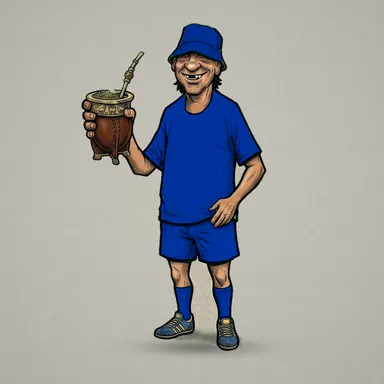
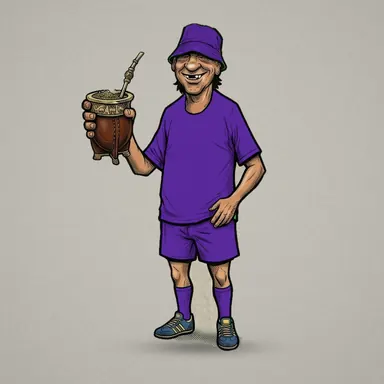
feat(avatares): dos poses por hincha en el selector; Independiente Rivadavia en violeta
Faltan las imágenes de la pose 2 (festejando).

Claude-Session: https://claude.ai/code/session_01QKgA6nDdpByUDEuMYCpMxJ

diff --git a/src/profile/avatars.tsx b/src/profile/avatars.tsx
@@ -1,9 +1,9 @@
 import { useMemo, useState } from 'react';
 import { Search } from 'lucide-react';
 import { AVATARS, getAvatar } from './avatarData';
-import { buscarHinchas, getHincha, HINCHAS, nombresDe, ordenarPorClub } from './hinchas';
+import { avatarIdDe, buscarHinchas, getHincha, HINCHAS, nombresDe, ordenarPorClub, POSES_HINCHA, poseDe } from './hinchas';
 import HinchaSvg, { CHICO } from './Hincha';
-import type { Hincha } from './hinchas';
+import type { Hincha, PoseHincha } from './hinchas';
 
 // Componentes de avatar: los clásicos (íconos, avatarData.ts) y los hinchas de clubes (hinchas.ts +
 // Hincha.tsx). Los ids de los dos sets tienen que coincidir con AVATAR_IDS del backend.
@@ -17,7 +17,7 @@ export function Avatar({ id, fallback, size = 84 }: { id?: string | null; fallba
   } as const;
 
   const hincha = getHincha(id);
-  if (hincha) return <HinchaAvatar hincha={hincha} size={size} />;
+  if (hincha && id) return <HinchaAvatar hincha={hincha} avatarId={id} size={size} />;
 
   const avatar = getAvatar(id);
   if (!avatar) {
@@ -40,22 +40,25 @@ export function Avatar({ id, fallback, size = 84 }: { id?: string | null; fallba
   );
 }
 
-// Hinchas ilustrados: una imagen por avatar en public/avatars/hinchas/<id>.webp (384×384, el círculo de color
-// toca el borde). Si la imagen no carga, se usa el dibujo SVG de Hincha.tsx como respaldo.
+// Hinchas ilustrados: una imagen por avatar (dos por club) en public/avatars/hinchas/<id>.webp (384×384, fondo gris). Si la imagen no carga, se usa el dibujo SVG de Hincha.tsx como respaldo.
 export const hinchaImagen = (id: string) => `/avatars/hinchas/${id}.webp`;
 // Chiquito (ranking, salas, marcador): se agranda la imagen y se centra en la cara y el pecho
 const ZOOM_CHICO = 1.9;
-const CENTRO_CHICO = { x: 0.53, y: 0.31 }; // punto de la imagen (0 a 1) que queda en el centro
+// Punto de la imagen (0 a 1) que queda en el centro, según la pose (1: con el mate; 2: festejando)
+const CENTRO_CHICO: Record<PoseHincha, { x: number; y: number }> = {
+  1: { x: 0.53, y: 0.31 },
+  2: { x: 0.5, y: 0.3 },
+};
 
-function HinchaAvatar({ hincha, size }: { hincha: Hincha; size: number }) {
+function HinchaAvatar({ hincha, avatarId, size }: { hincha: Hincha; avatarId: string; size: number }) {
   const [sinImagen, setSinImagen] = useState(false);
   const lado = size < CHICO ? size * ZOOM_CHICO : size;
-  const centro = size < CHICO ? CENTRO_CHICO : { x: 0.5, y: 0.5 };
+  const centro = size < CHICO ? CENTRO_CHICO[poseDe(avatarId)] : { x: 0.5, y: 0.5 };
   return (
     <div
       role="img"
       aria-label={`Avatar: hincha de ${nombresDe(hincha).join(', ')}`}
-      data-avatar={hincha.id}
+      data-avatar={avatarId}
       style={{
         width: size, height: size, borderRadius: '50%', flexShrink: 0, overflow: 'hidden',
         display: 'flex', alignItems: 'center', justifyContent: 'center',
@@ -66,7 +69,7 @@ function HinchaAvatar({ hincha, size }: { hincha: Hincha; size: number }) {
         <HinchaSvg hincha={hincha} size={size} />
       ) : (
         <img
-          src={hinchaImagen(hincha.id)}
+          src={hinchaImagen(avatarId)}
           alt=""
           aria-hidden="true"
           loading="lazy"
@@ -147,9 +150,13 @@ export function AvatarPicker({ value, onChange }: { value: string | null; onChan
         display: 'grid', gridTemplateColumns: 'repeat(auto-fill, minmax(68px, 1fr))', gap: '6px',
         maxHeight: '320px', overflowY: 'auto', paddingRight: '2px',
       }}>
-        {clubes.map((h) => (
-          <Opcion key={h.id} id={h.id} label={h.club} otros={h.otros} selected={h.id === value} onChange={onChange} size={60} />
-        ))}
+        {/* Dos por club: con el mate y festejando */}
+        {clubes.flatMap((h) => POSES_HINCHA.map((pose) => {
+          const avatarId = avatarIdDe(h, pose);
+          return (
+            <Opcion key={avatarId} id={avatarId} label={h.club} otros={h.otros} selected={avatarId === value} onChange={onChange} size={60} />
+          );
+        }))}
         {clubes.length === 0 && (
           <p style={{ gridColumn: '1 / -1', fontSize: '12px', color: 'rgba(180,255,205,0.6)' }}>No encontramos ese club.</p>
         )}

diff --git a/src/profile/hinchas.ts b/src/profile/hinchas.ts
@@ -43,6 +43,7 @@ const AMARILLO = '#ffd200';
 const CELESTE = '#3fa9f5';
 const VERDE = '#00a443';
 const GRANATE = '#8c0f2a';
+const VIOLETA_LEPRA = '#5b2a9e'; // Independiente Rivadavia
 
 // Fondos fuertes
 const NARANJA = '#ff7a00';
@@ -72,7 +73,7 @@ export const HINCHAS: Hincha[] = [
   { id: 'hincha_ferro', club: 'Ferro Carril Oeste', otros: ['Sarmiento (Junín)'], diseno: 'lisa', camiseta: ['#007a33', BLANCO], short: BLANCO, medias: '#007a33', fondo: NARANJA, liga: 'historico' },
   { id: 'hincha_gimnasia_lp', club: 'Gimnasia (La Plata)', diseno: 'franja', camiseta: [BLANCO, AZUL_MARINO], short: BLANCO, medias: BLANCO, fondo: AMARILLO_F, liga: 'lpf' },
   { id: 'hincha_independiente', club: 'Independiente', otros: ['Argentinos Juniors'], diseno: 'lisa', camiseta: [ROJO, BLANCO], short: AZUL_MARINO, medias: ROJO, fondo: PETROLEO, liga: 'lpf' },
-  { id: 'hincha_ind_rivadavia', club: 'Independiente Rivadavia', diseno: 'lisa', camiseta: [AZUL, BLANCO], short: AZUL, medias: AZUL, fondo: AMARILLO_F, liga: 'lpf' },
+  { id: 'hincha_ind_rivadavia', club: 'Independiente Rivadavia', diseno: 'lisa', camiseta: [VIOLETA_LEPRA, BLANCO], short: VIOLETA_LEPRA, medias: VIOLETA_LEPRA, fondo: AMARILLO_F, liga: 'lpf' },
   { id: 'hincha_lanus', club: 'Lanús', diseno: 'lisa', camiseta: [GRANATE, BLANCO], short: GRANATE, medias: GRANATE, fondo: TURQUESA, liga: 'lpf' },
   { id: 'hincha_newells', club: "Newell's Old Boys", otros: ['Colón'], diseno: 'mitades', camiseta: [ROJO, NEGRO], short: NEGRO, medias: ROJO, fondo: AMARILLO_F, liga: 'lpf' },
   { id: 'hincha_nueva_chicago', club: 'Nueva Chicago', otros: ['San Martín (San Juan)'], diseno: 'rayas', camiseta: [VERDE, NEGRO], short: NEGRO, medias: VERDE, fondo: NARANJA, liga: 'historico' },
@@ -88,7 +89,19 @@ export const HINCHAS: Hincha[] = [
   { id: 'hincha_velez', club: 'Vélez Sarsfield', diseno: 'v', camiseta: [BLANCO, AZUL], short: AZUL, medias: BLANCO, fondo: CORAL, liga: 'lpf' },
 ];
 
-export const getHincha = (id: string | null | undefined) => HINCHAS.find((h) => h.id === id);
+// Cada hincha tiene dos poses: la 1 (con el mate) usa el id del club y la 2 (festejando con los brazos arriba)
+// el mismo id + "_2". Los dos ids están en el backend (CLUB_AVATAR_IDS y CLUB_AVATAR_IDS_2).
+export type PoseHincha = 1 | 2;
+export const POSES_HINCHA: PoseHincha[] = [1, 2];
+export const avatarIdDe = (h: Hincha, pose: PoseHincha) => (pose === 1 ? h.id : `${h.id}_2`);
+export const HINCHA_AVATAR_IDS = HINCHAS.flatMap((h) => POSES_HINCHA.map((p) => avatarIdDe(h, p)));
+export const poseDe = (id: string): PoseHincha => (id.endsWith('_2') ? 2 : 1);
+
+// Sirve con los dos ids (pose 1 o 2): devuelve el club
+export const getHincha = (id: string | null | undefined) => {
+  if (!id) return undefined;
+  return HINCHAS.find((h) => h.id === id || `${h.id}_2` === id);
+};
 
 // Todos los clubes de un avatar: el principal y los que tienen la misma camiseta
 export const nombresDe = (h: Hincha) => [h.club, ...(h.otros ?? [])];

diff --git a/src/profile/avatars.test.tsx b/src/profile/avatars.test.tsx
@@ -2,7 +2,7 @@ import { describe, expect, it } from 'vitest';
 import { renderToStaticMarkup } from 'react-dom/server';
 import { Avatar, AvatarPicker, hinchaImagen } from './avatars';
 import { AVATARS, getAvatar } from './avatarData';
-import { buscarHinchas, HINCHAS, nombresDe, ordenarPorClub, varianteDe } from './hinchas';
+import { buscarHinchas, getHincha, HINCHA_AVATAR_IDS, HINCHAS, nombresDe, ordenarPorClub, varianteDe } from './hinchas';
 import HinchaSvg from './Hincha';
 import { winRate } from '../api/profile';
 import { getTokenUserId } from '../auth/session';
@@ -123,7 +123,21 @@ describe('hinchas de clubes', () => {
   it('hay una imagen por hincha en public/avatars/hinchas y ninguna de más', () => {
     // Sin eager: sólo lista los archivos, no los importa (lo que está en public/ no se importa desde JS)
     const archivos = Object.keys(import.meta.glob('../../public/avatars/hinchas/*.webp')).map((p) => p.split('/').pop()).sort();
-    expect(archivos).toEqual(HINCHAS.map((h) => `${h.id}.webp`).sort());
+    expect(archivos).toEqual(HINCHA_AVATAR_IDS.map((id) => `${id}.webp`).sort());
+  });
+
+  it('cada club tiene dos poses: el id del club y el mismo + "_2"', () => {
+    expect(HINCHA_AVATAR_IDS).toHaveLength(HINCHAS.length * 2);
+    for (const id of HINCHA_AVATAR_IDS) expect(id.length).toBeLessThanOrEqual(30);
+    expect(getHincha('hincha_boca_2')?.club).toBe('Boca Juniors');
+    expect(getHincha('hincha_boca')?.club).toBe('Boca Juniors');
+    expect(getHincha('pelota_2')).toBeUndefined();
+    const html = renderToStaticMarkup(<Avatar id="hincha_boca_2" fallback="x" size={84} />);
+    expect(html).toContain(`src="${hinchaImagen('hincha_boca_2')}"`);
+    expect(html).toContain('data-avatar="hincha_boca_2"');
+    const picker = renderToStaticMarkup(<AvatarPicker value="hincha_river_2" onChange={() => {}} />);
+    expect(picker.match(/aria-checked="true"/g)).toHaveLength(1);
+    expect(picker.match(/role="radio"/g)!.length).toBe(12 + HINCHA_AVATAR_IDS.length); // 12 clásicos + 2 por club
   });
 
   it('ningún dibujo tiene texto (ni nombres de clubes, ni números, ni marcas)', () => {
